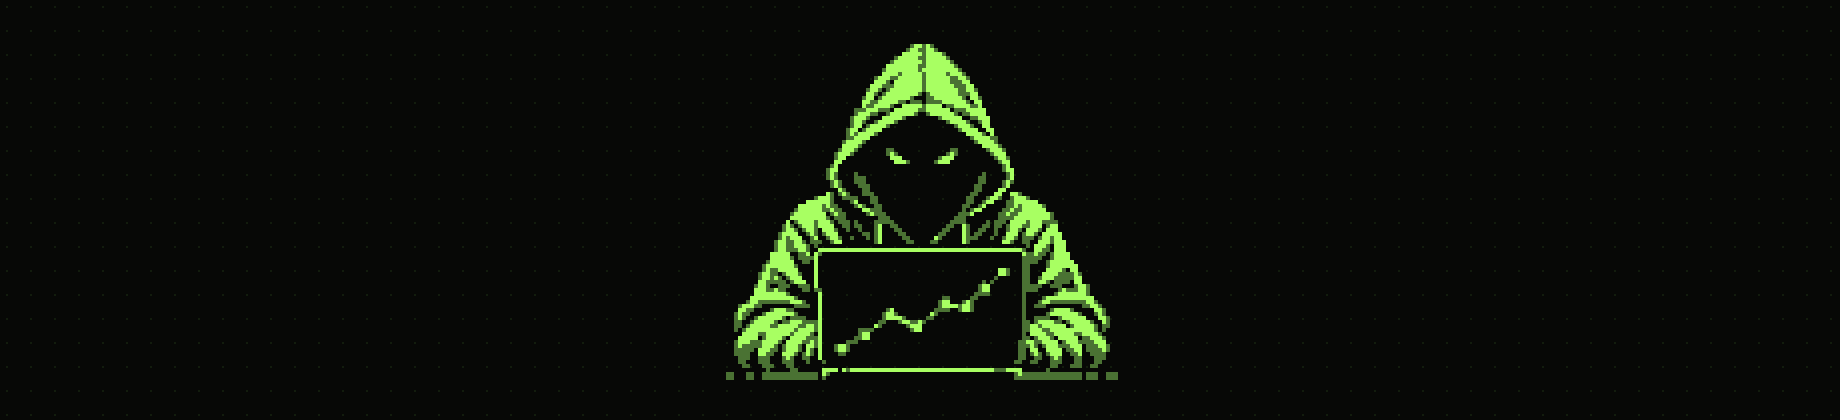
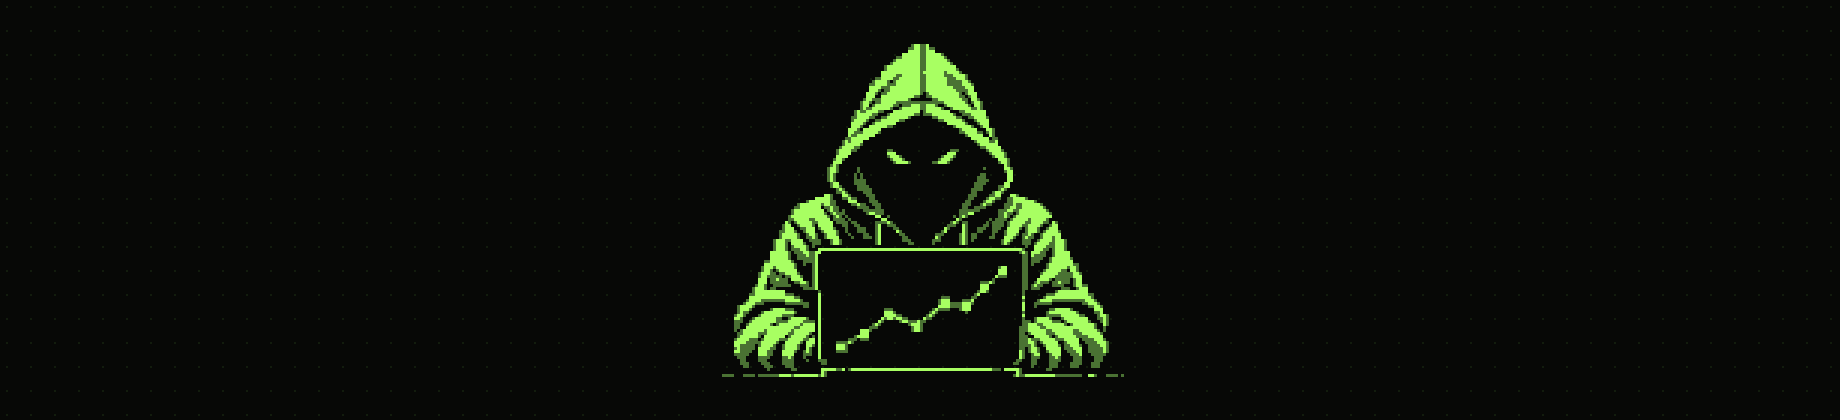
Sharpen the operator art: finer grid, exact display scale
Two things were blurring it. The grid was coarse enough to swallow the hood
folds, and the hero asset was 760px wide displayed near 280px, so nearest-
neighbour scaling dropped rows of pixels rather than halving them.

Each crop is now quantised at the finest grid that still lands on a whole
scale factor for its own output size, and the hero is a 640px asset shown at
320 CSS px — an exact 2:1, so it stays on whole pixels at 1x and on retina.

Changed region(s): [[0.4027, 0.1238, 0.6196, 0.9286]]

diff --git a/web/index.html b/web/index.html
@@ -592,8 +592,8 @@ footer b { color:var(--muted); font-weight:400; }
 .pipeText{max-width:none;display:grid;grid-template-columns:minmax(0,1fr) minmax(0,320px);
   gap:40px;align-items:center}
 .heroCopy{min-width:0}
-.heroArt{margin:0;padding:0;line-height:0}
-.heroArt img{display:block;width:100%;height:auto;image-rendering:pixelated}
+.heroArt{margin:0;padding:0;line-height:0;display:flex;justify-content:flex-end}
+.heroArt img{display:block;width:320px;max-width:100%;height:auto;image-rendering:pixelated}
 @media (max-width:900px){.pipeText{grid-template-columns:1fr;gap:0}.heroArt{display:none}}
 </style>
 </head>
@@ -629,7 +629,7 @@ footer b { color:var(--muted); font-weight:400; }
         </p>
       </div>
       <figure class="heroArt">
-        <img src="/assets/hero-art.png" alt="The agent at its terminal" width="760" height="668">
+        <img src="/assets/hero-art.png" alt="The agent at its terminal" width="640" height="564">
       </figure>
     </div>
     <div class="acts">
